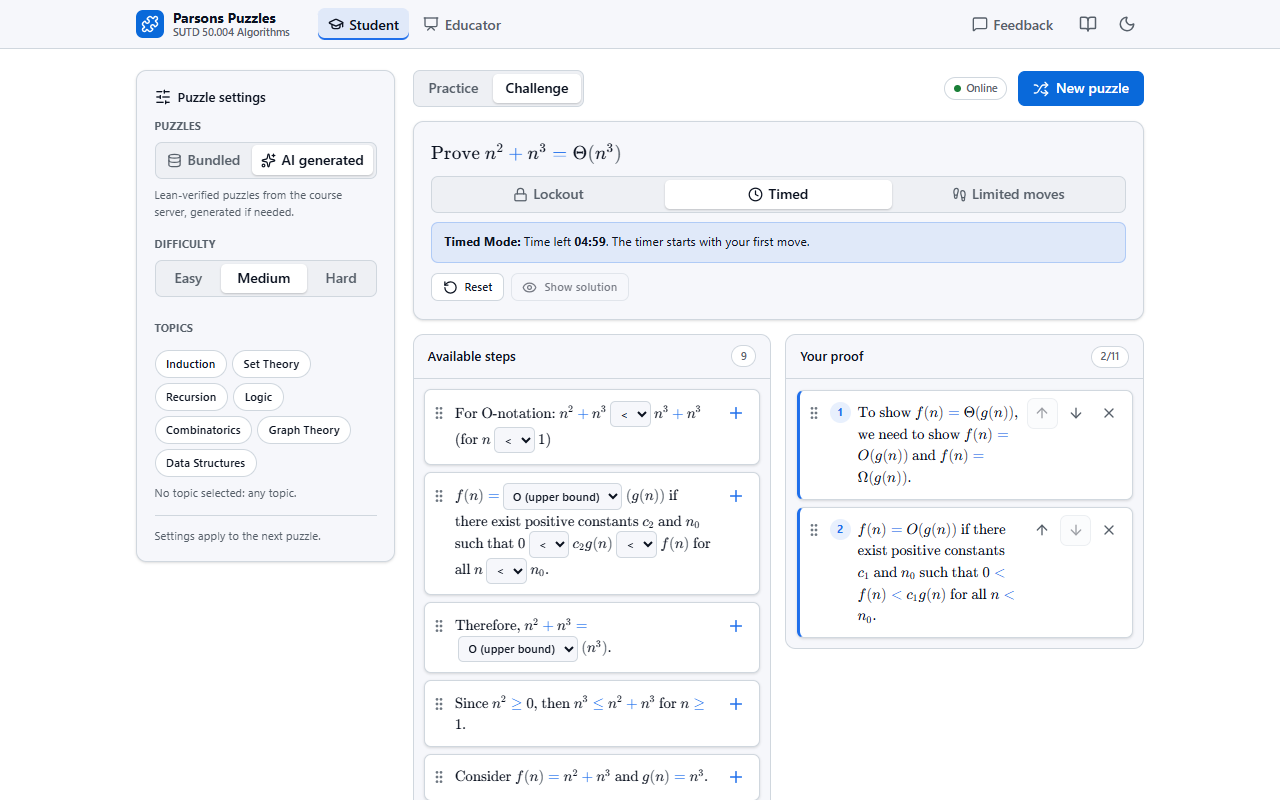
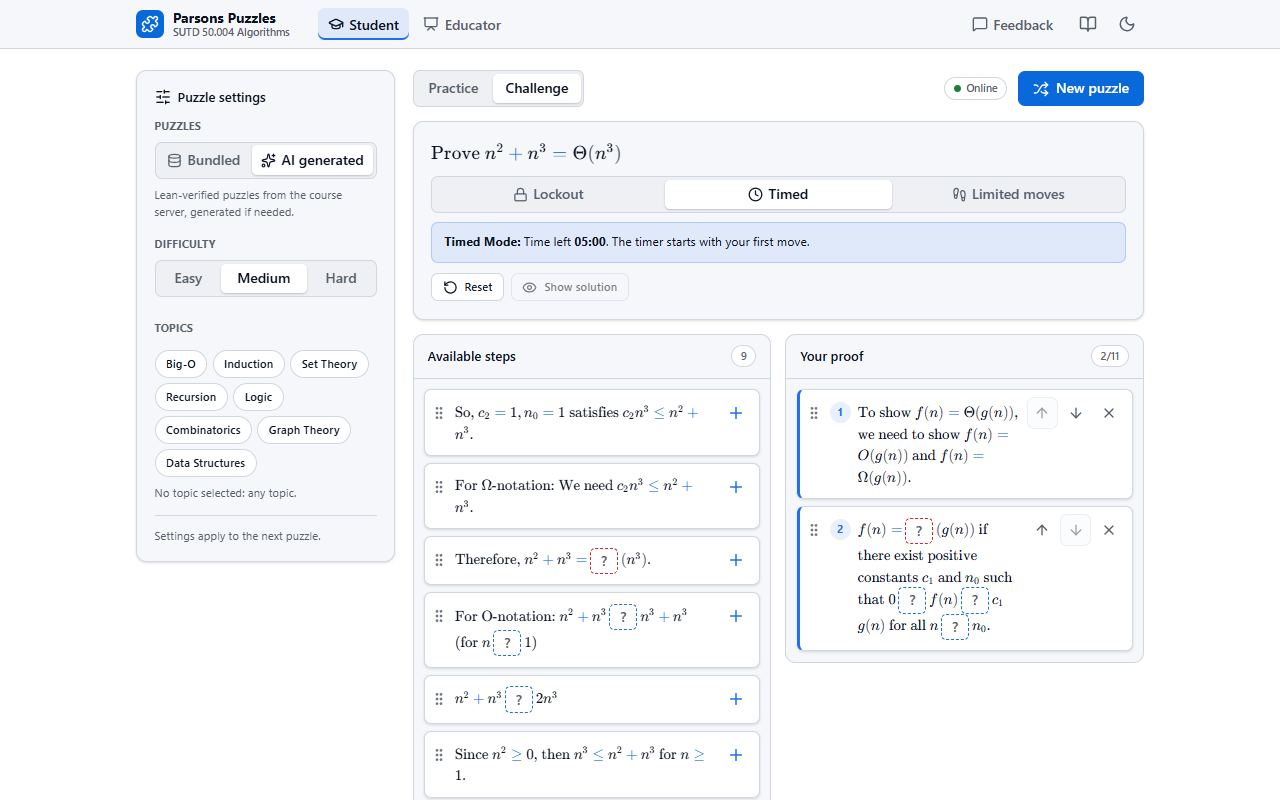
Refresh README screenshots and text; fix npm run migrate on Windows
- Retake the four app screenshots: symbol buttons instead of dropdowns,
  all eight topics, educator sign-in and the review queue.
- README: describe the symbol buttons for students and replace the
  outdated 'There is no login yet' line.
- migratePuzzles: stop forcing TLS on Windows, which made the import
  fail against a local MongoDB, and drop tlsAllowInvalidCertificates
  (mongodb+srv already uses TLS with certificate checks). A failed
  migration now exits 1 instead of printing 'completed successfully'.

diff --git a/backend/scripts/migratePuzzles.js b/backend/scripts/migratePuzzles.js
@@ -97,13 +97,8 @@ async function migratePuzzles() {
       bufferCommands: false,
       maxPoolSize: 10
     };
-    
-    // Add TLS options for Windows/Atlas
-    if (MONGODB_URI.includes('mongodb+srv') || process.platform === 'win32') {
-      connectionOptions.tls = true;
-      connectionOptions.tlsAllowInvalidCertificates = true;
-    }
-    
+    // mongodb+srv:// (Atlas) turns TLS on, with certificate checks, by itself.
+
     await mongoose.connect(MONGODB_URI, connectionOptions);
     console.log('Connected to MongoDB successfully!');
     
@@ -196,7 +191,8 @@ async function migratePuzzles() {
     console.log(`\nTotal active puzzles: ${totalCount}`);
     
   } catch (error) {
-    console.error('Migration error:', error);
+    console.error('Migration error:', error.message);
+    throw error;
   } finally {
     await mongoose.connection.close();
     console.log('Database connection closed.');
@@ -209,8 +205,8 @@ if (process.argv[1] && process.argv[1].endsWith('migratePuzzles.js')) {
   migratePuzzles().then(() => {
     console.log('Migration completed successfully!');
     process.exit(0);
-  }).catch((error) => {
-    console.error('Migration failed:', error);
+  }).catch(() => {
+    console.error('Migration failed.');
     process.exit(1);
   });
 }

diff --git a/README.md b/README.md
@@ -11,6 +11,7 @@ A web app for practising mathematical proofs in SUTD 50.004 Algorithms. Students
 ### For students
 
 - Drag steps into place, or tap **+** and reorder with ↑ / ↓. Works on desktop and phones.
+- Some steps have symbols to fill in (such as ≤, Θ or ∀). Click a symbol to cycle through the options; it is graded with the step.
 - **Practice** mode gives a score and hints as you go.
 - **Challenge** mode hides the result until you submit, with Lockout, Timed (5 minutes) and Limited moves (20) rules.
 - Pick bundled puzzles or AI-generated ones by difficulty and topic.
@@ -33,7 +34,7 @@ A web app for practising mathematical proofs in SUTD 50.004 Algorithms. Students
 
 <table>
   <tr>
-    <td><img src=".github/assets/screenshots/educator-dashboard.png" alt="Educator dashboard"></td>
+    <td><img src=".github/assets/screenshots/educator-dashboard.png" alt="Educator dashboard with the review queue"></td>
     <td><img src=".github/assets/screenshots/puzzle-creator.png" alt="Proof steps with a live LaTeX preview"></td>
   </tr>
 </table>
@@ -79,4 +80,4 @@ Common commands, run from the root: `npm run dev:fullstack`, `npm test`, `npm ru
 | Running it | [Getting started](https://github.com/TimSeah/ParsonsPuzzleSUTD/wiki/Getting-Started) · [Configuration](https://github.com/TimSeah/ParsonsPuzzleSUTD/wiki/Configuration) · [Database](https://github.com/TimSeah/ParsonsPuzzleSUTD/wiki/Database) · [Deployment](https://github.com/TimSeah/ParsonsPuzzleSUTD/wiki/Deployment) · [Troubleshooting](https://github.com/TimSeah/ParsonsPuzzleSUTD/wiki/Troubleshooting) |
 | How it works | [Architecture](https://github.com/TimSeah/ParsonsPuzzleSUTD/wiki/Architecture) · [Generation and verification](https://github.com/TimSeah/ParsonsPuzzleSUTD/wiki/Generation-and-Verification) · [API reference](https://github.com/TimSeah/ParsonsPuzzleSUTD/wiki/API-Reference) · [Puzzle format](https://github.com/TimSeah/ParsonsPuzzleSUTD/wiki/Puzzle-Format) |
 
-There is no login yet. Read [Deployment](https://github.com/TimSeah/ParsonsPuzzleSUTD/wiki/Deployment#before-going-public) before putting the app on a public server.
+Students don't sign in, and educators share one key. Read [Deployment](https://github.com/TimSeah/ParsonsPuzzleSUTD/wiki/Deployment#before-going-public) before putting the app on a public server.
